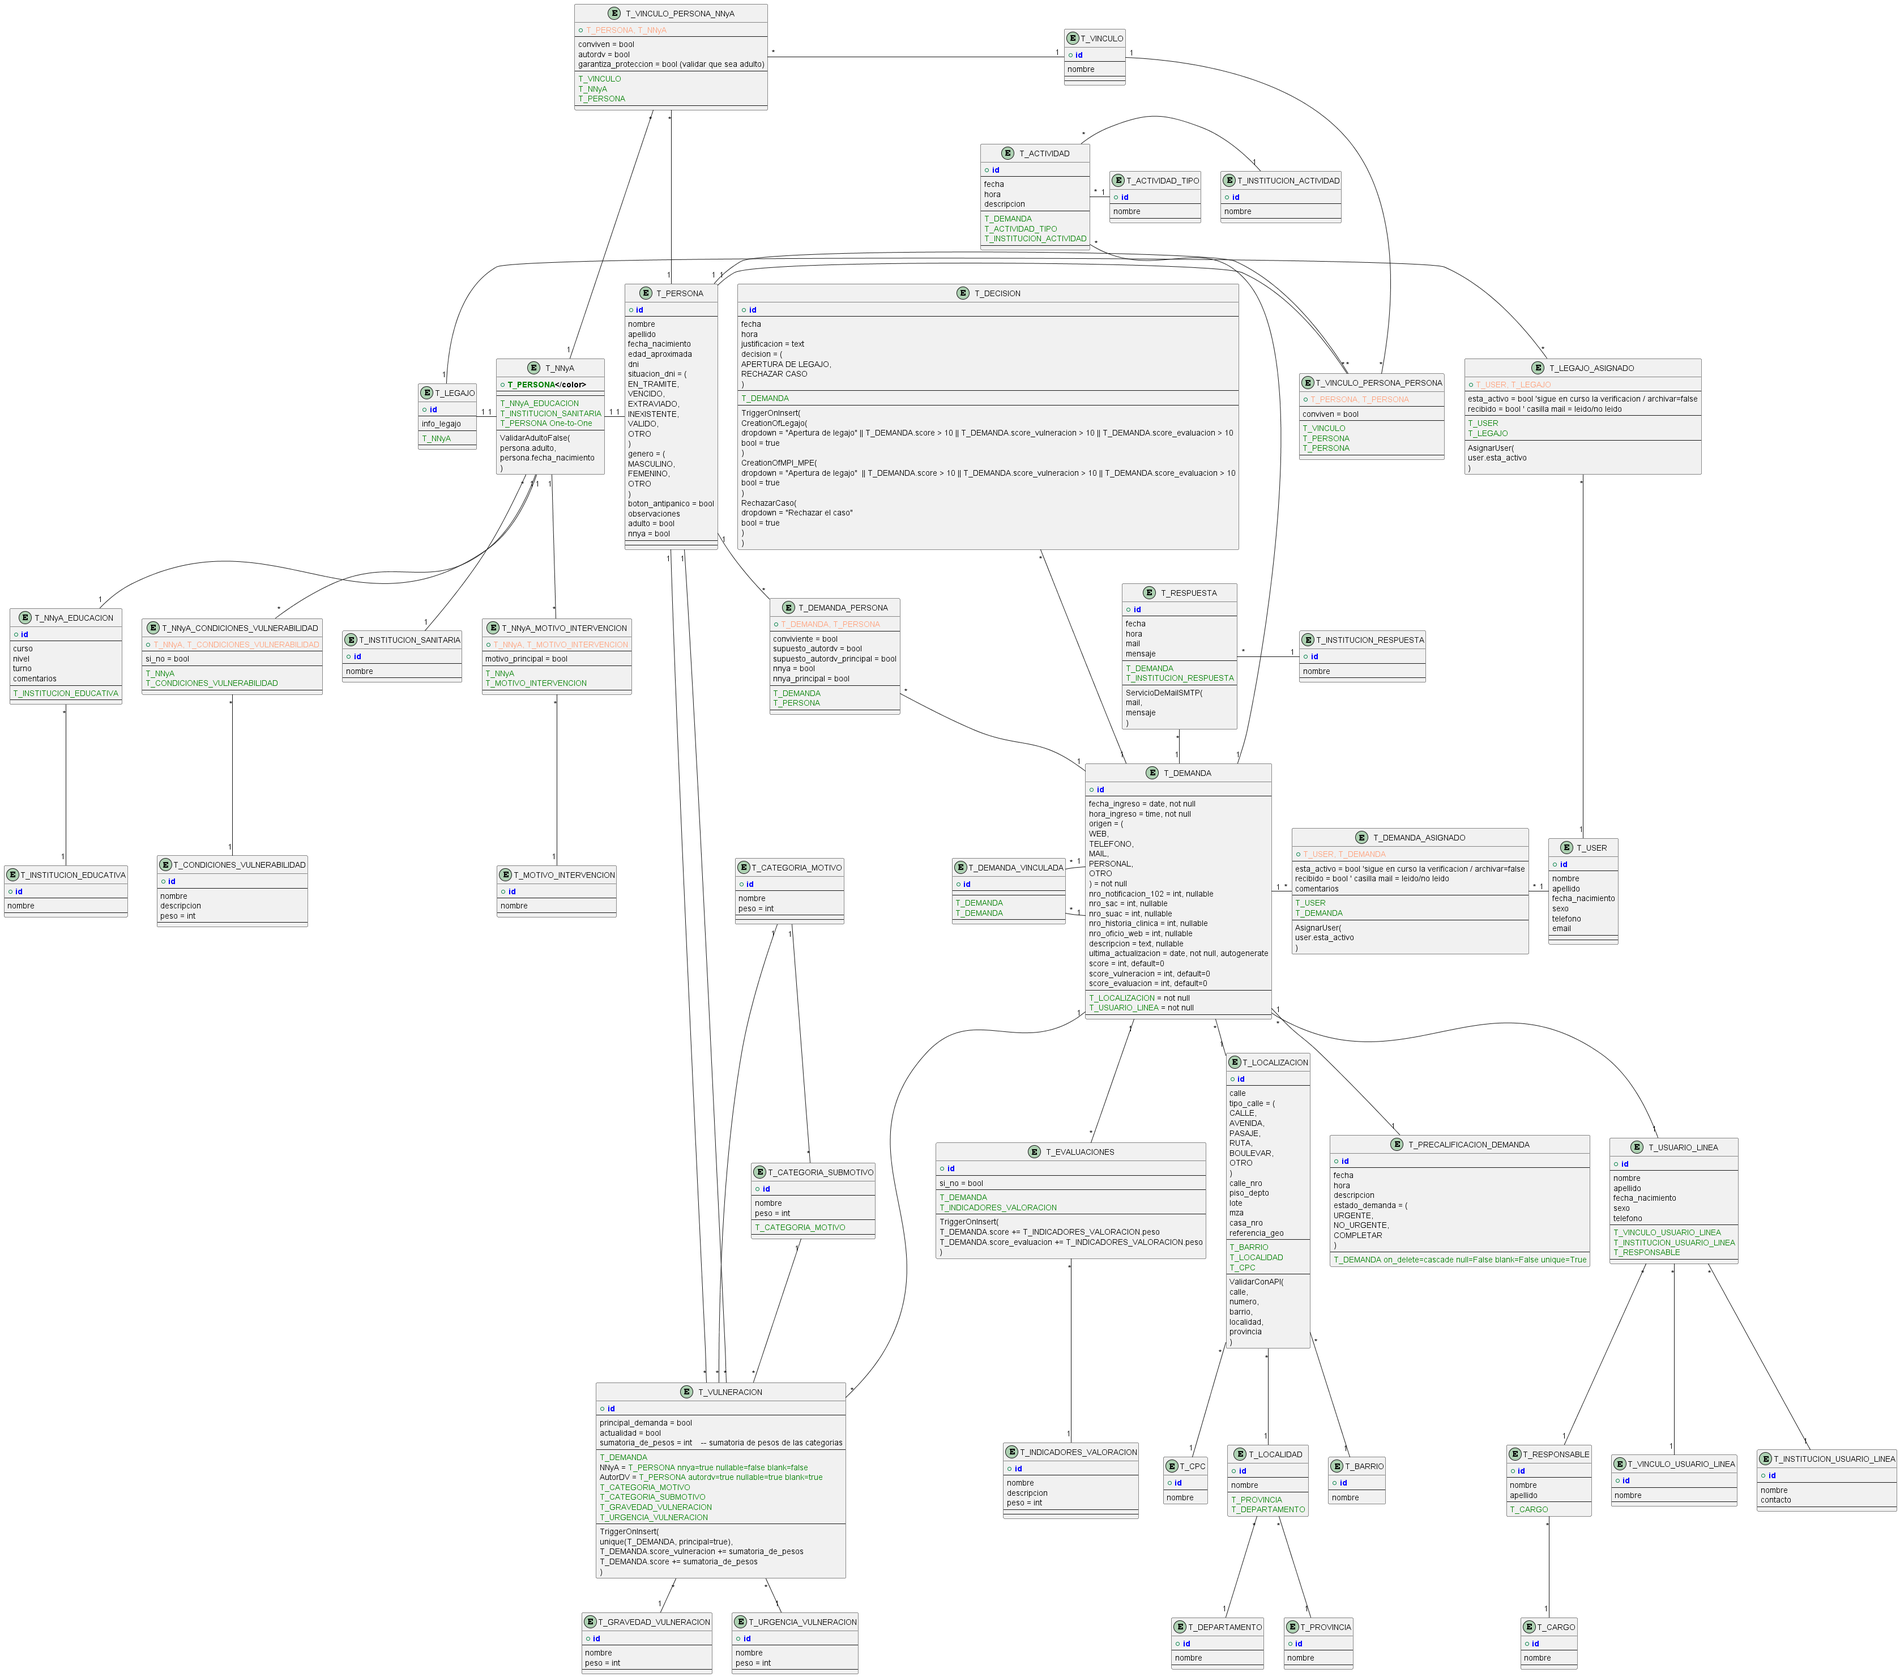
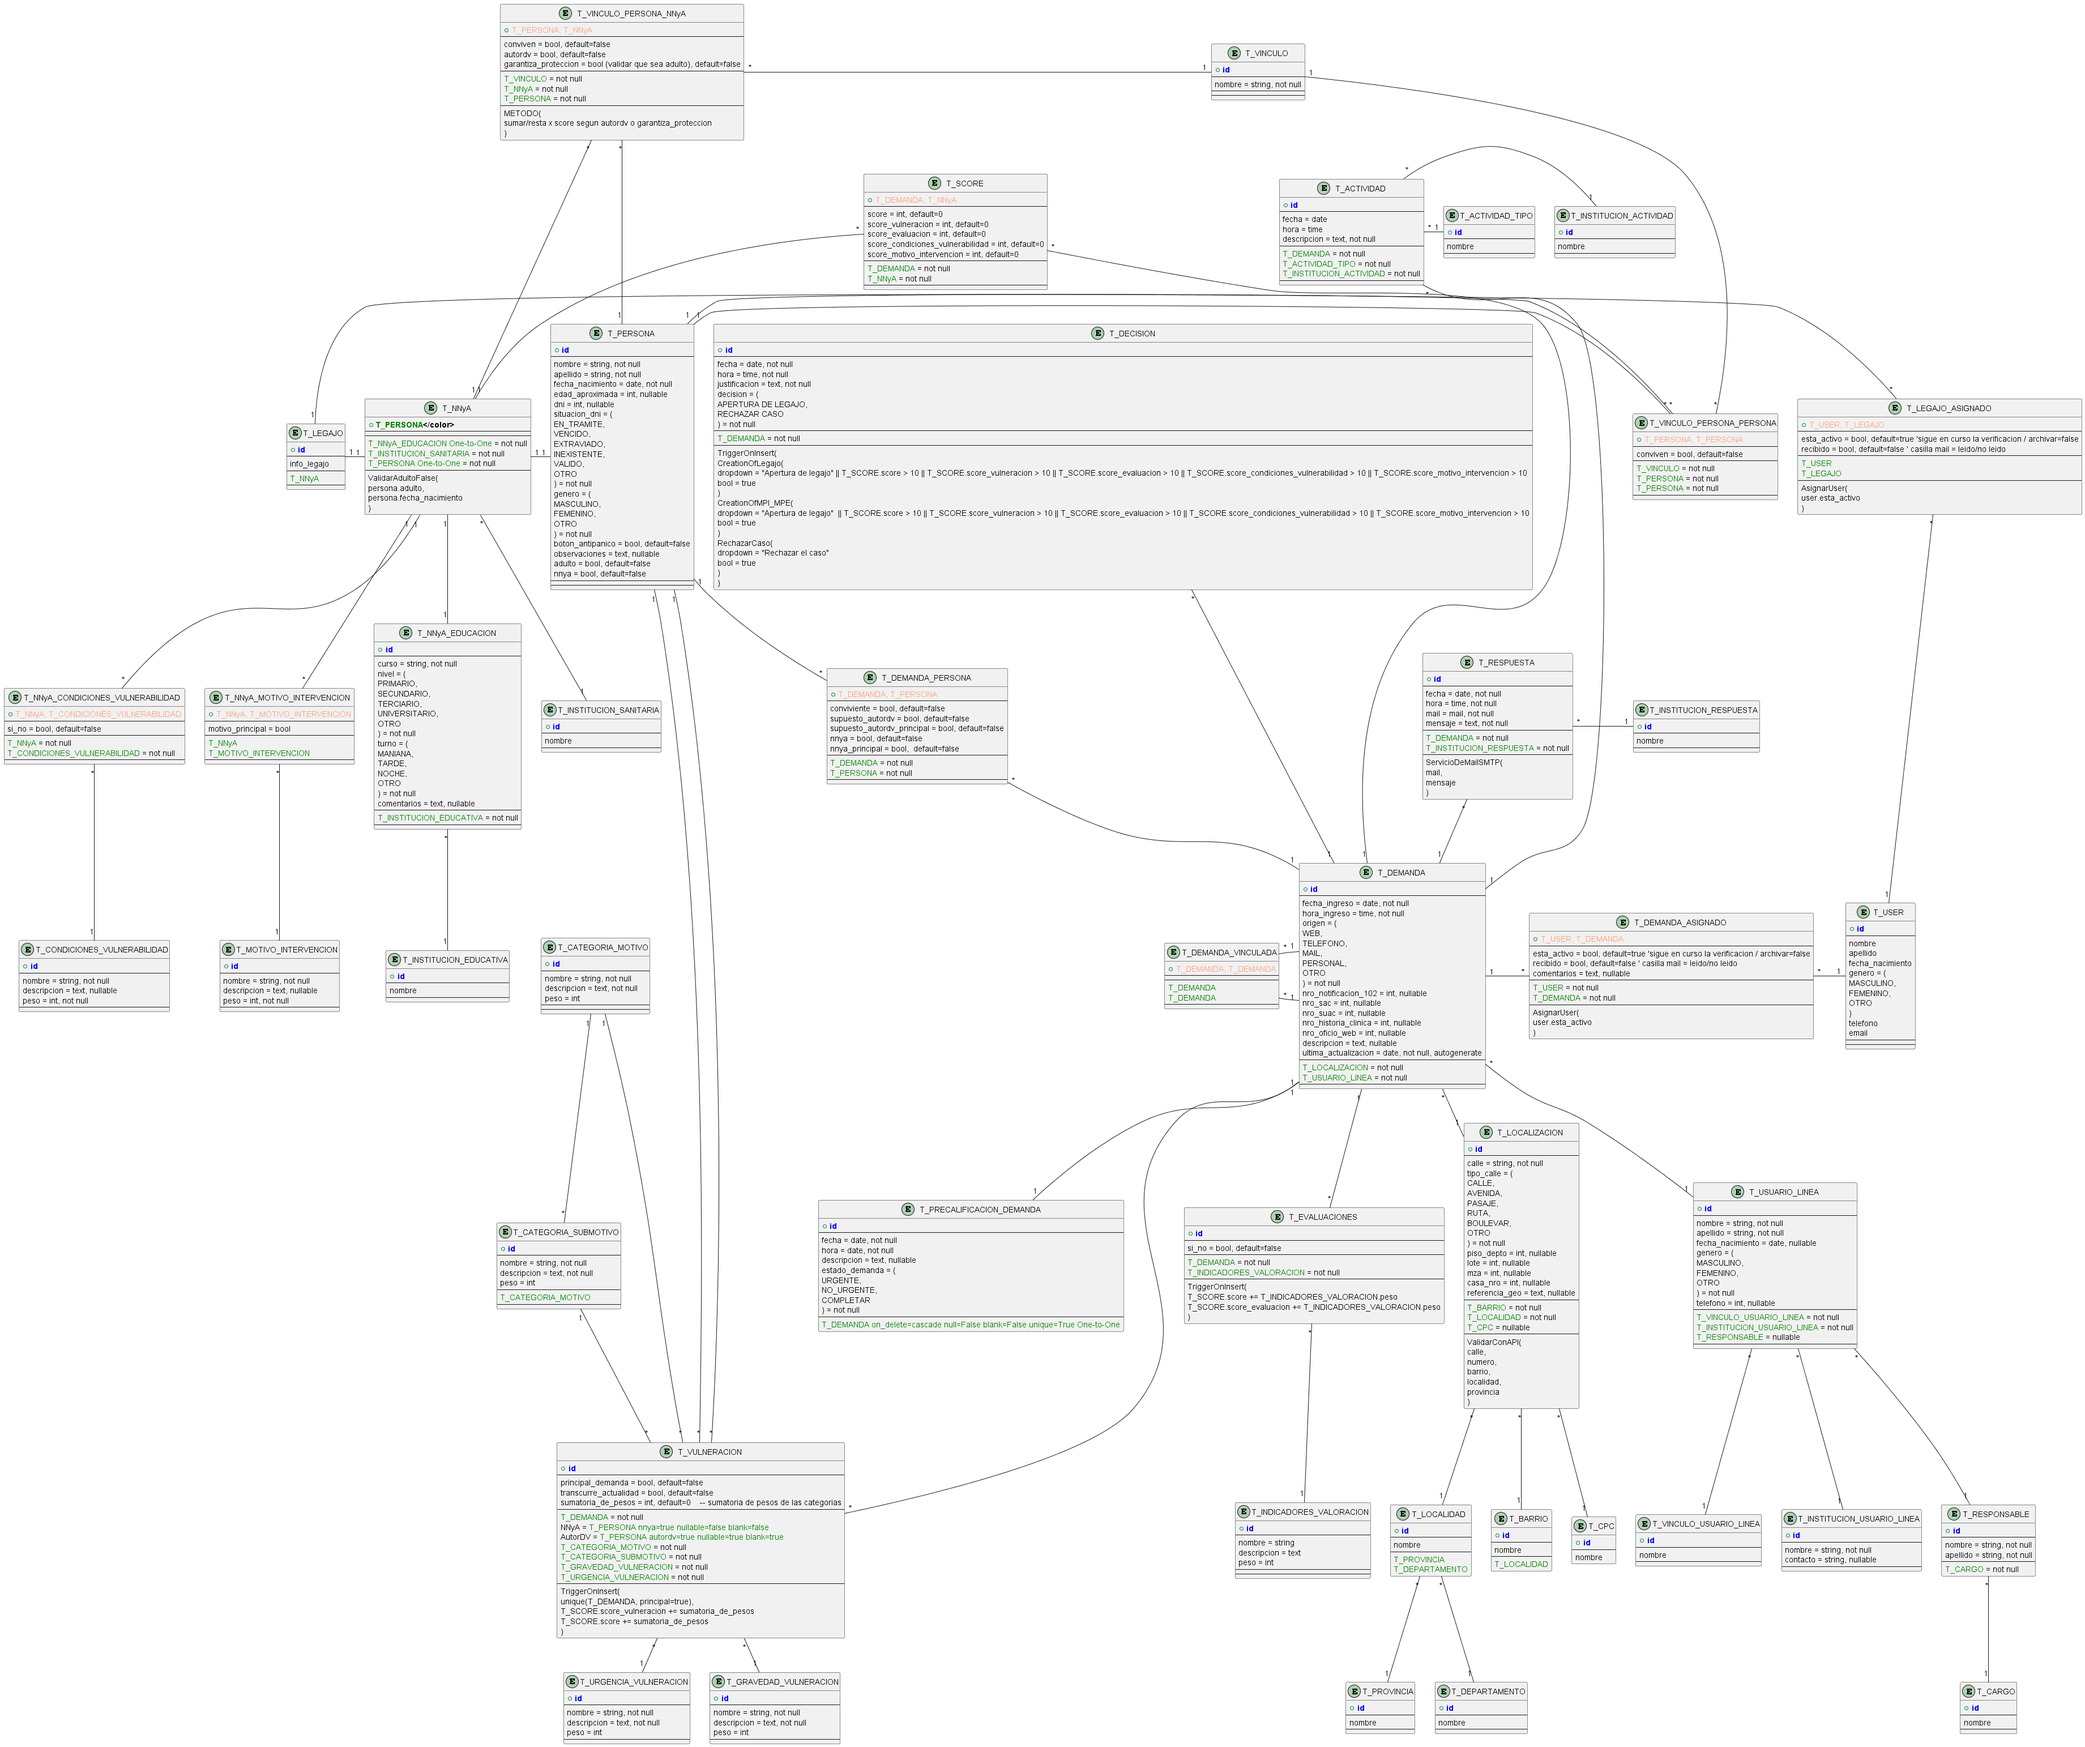
DIAGRAM UPDATE

diff --git a/docs/db/metodos.md b/docs/db/metodos.md
@@ -11,7 +11,7 @@
 - - A su vez, se genera una sumatoria de pesos de las vulneraciones asociada a una demanda, lo que sería el **score** . -->
 - - Al momento de evaluar, se suman los pesos según la selección de cada sub-tipo de las evaluaciones, generando así también, un score de la evaluación, que se suma al score de la demanda. En el sheets, son los *indicadores de valoración de Amenaza/Vulneración de Derechos* . Va a haber muchos indicadores generables desde el admin, que por una tabla intermedia entre la evaluación y cada indicador, se lo va poder marcar como true/false, sumando o no de esa manera su peso asociado. Hay que hacer una *composite-key* o algo similar que  valide la *unicidad* entre esa selección y la evaluación
 - Sugerencia de apertura según el score
-
+- sumar/resta x score al score del nnya segun autordv o garantiza_proteccion
 
 ## Validaciones (Back):
 - NNyA principal no puede estar como principal en otra Demanda
